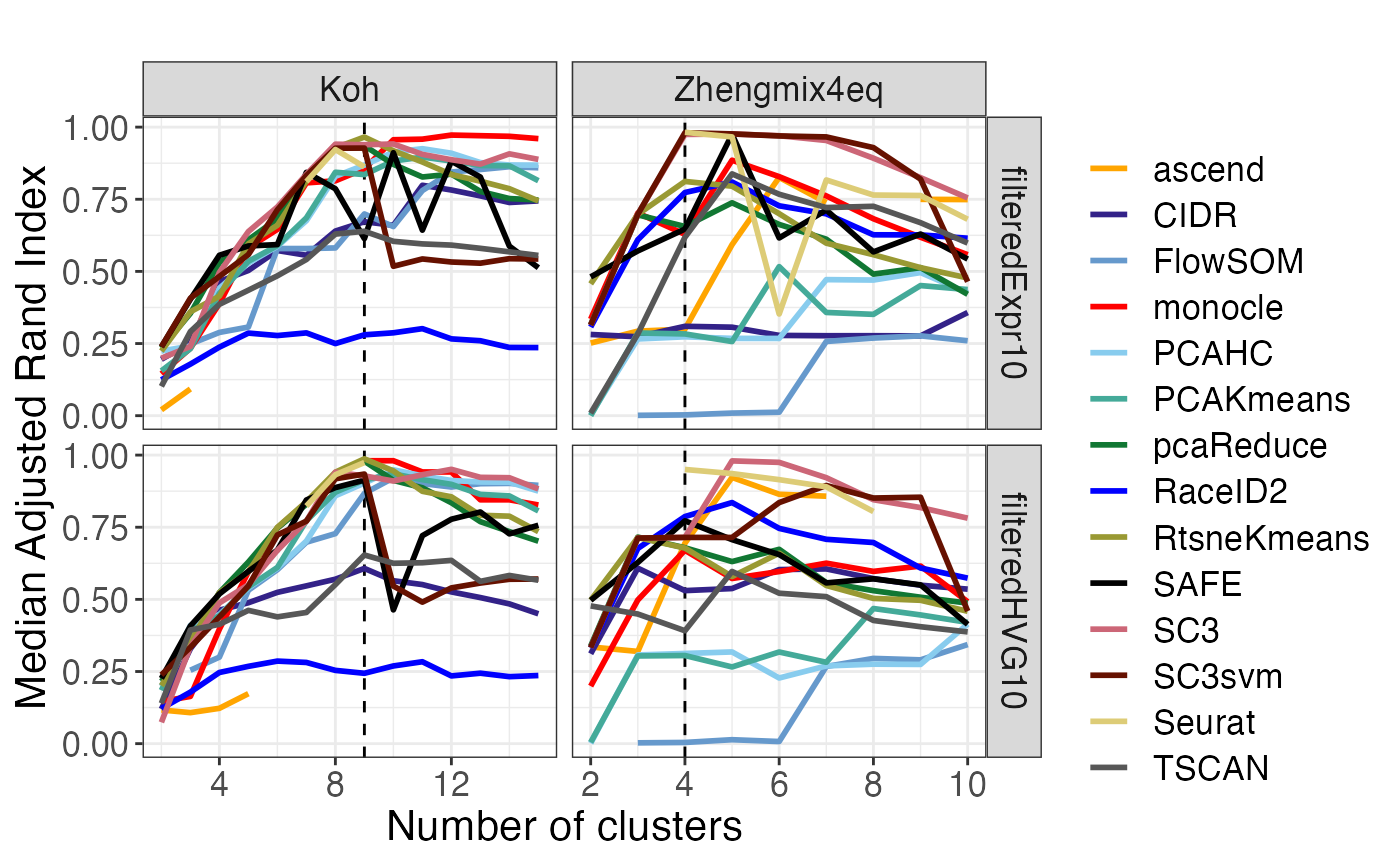
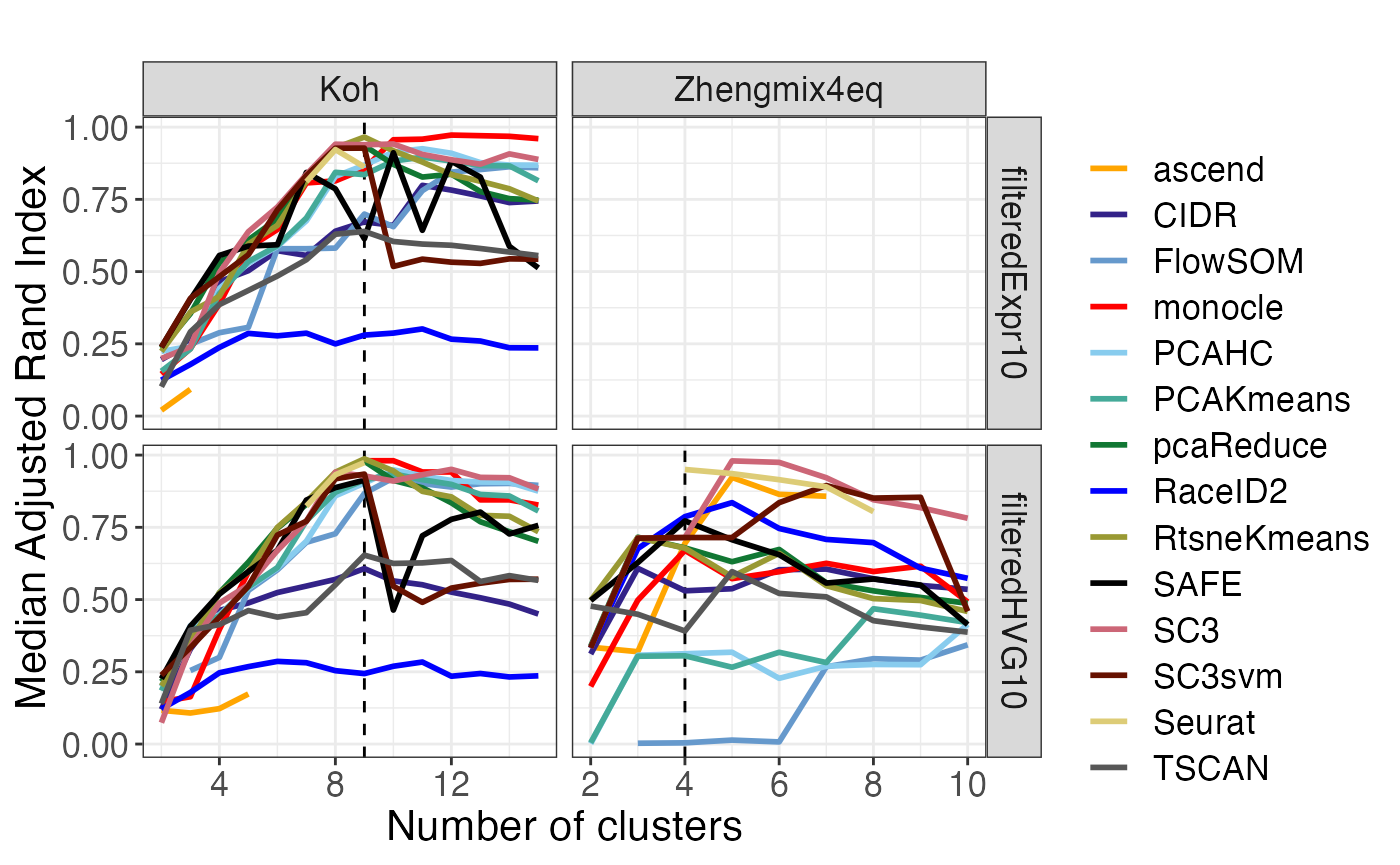
Built site for DuoClustering2018: 1.7.0@74507aa

diff --git a/articles/plot_performance.html b/articles/plot_performance.html
@@ -102,7 +102,7 @@
   <span class="kw"><a href="https://rdrr.io/r/base/library.html">library</a></span><span class="op">(</span><span class="va">DuoClustering2018</span><span class="op">)</span>
   <span class="kw"><a href="https://rdrr.io/r/base/library.html">library</a></span><span class="op">(</span><span class="va"><a href="http://had.co.nz/plyr">plyr</a></span><span class="op">)</span>
 <span class="op">}</span><span class="op">)</span></pre></div>
-<pre><code>## using temporary cache /var/folders/24/8k48jl6d249_n_qfxwsl6xvm0000gn/T//RtmpJYi2hT/BiocFileCache</code></pre>
+<pre><code>## using temporary cache /var/folders/24/8k48jl6d249_n_qfxwsl6xvm0000gn/T//Rtmpl3d2JK/BiocFileCache</code></pre>
 <pre><code>## snapshotDate(): 2020-10-02</code></pre>
 </div>
 <div id="retrieve-a-data-set" class="section level1">
@@ -187,7 +187,7 @@
 <span class="va">res</span> <span class="op">&lt;-</span> <span class="fu">plyr</span><span class="fu">::</span><span class="fu"><a href="https://rdrr.io/pkg/plyr/man/rbind.fill.html">rbind.fill</a></span><span class="op">(</span>
   <span class="fu"><a href="../reference/clustering_summary_filteredExpr10_Koh_v2.html">clustering_summary_filteredExpr10_Koh_v2</a></span><span class="op">(</span><span class="op">)</span>,
   <span class="fu"><a href="../reference/clustering_summary_filteredExpr10_Koh_v2.html">clustering_summary_filteredHVG10_Koh_v2</a></span><span class="op">(</span><span class="op">)</span>,
-  <span class="fu"><a href="../reference/clustering_summary_filteredExpr10_Koh_v2.html">clustering_summary_filteredExpr10_Zhengmix4eq_v2</a></span><span class="op">(</span><span class="op">)</span>,
+  <span class="co">#clustering_summary_filteredExpr10_Zhengmix4eq_v2(),</span>
   <span class="fu"><a href="../reference/clustering_summary_filteredExpr10_Koh_v2.html">clustering_summary_filteredHVG10_Zhengmix4eq_v2</a></span><span class="op">(</span><span class="op">)</span>
 <span class="op">)</span></pre></div>
 <pre><code>## snapshotDate(): 2020-10-02</code></pre>
@@ -205,14 +205,9 @@
 <pre><code>## downloading 1 resources</code></pre>
 <pre><code>## retrieving 1 resource</code></pre>
 <pre><code>## loading from cache</code></pre>
-<pre><code>## snapshotDate(): 2020-10-02</code></pre>
-<pre><code>## see ?DuoClustering2018 and browseVignettes('DuoClustering2018') for documentation</code></pre>
-<pre><code>## downloading 1 resources</code></pre>
-<pre><code>## retrieving 1 resource</code></pre>
-<pre><code>## loading from cache</code></pre>
-<div class="sourceCode" id="cb42"><pre class="downlit">
+<div class="sourceCode" id="cb37"><pre class="downlit">
 <span class="fu"><a href="https://rdrr.io/r/base/dim.html">dim</a></span><span class="op">(</span><span class="va">res</span><span class="op">)</span></pre></div>
-<pre><code>## [1] 5625885      10</code></pre>
+<pre><code>## [1] 3261810      10</code></pre>
 <p>The resulting <code>data.frame</code> contains 10 columns:</p>
 <ul>
 <li>
@@ -236,7 +231,7 @@
 <li>
 <code>elapsed</code>: The elapsed time of the run</li>
 </ul>
-<div class="sourceCode" id="cb44"><pre class="downlit">
+<div class="sourceCode" id="cb39"><pre class="downlit">
 <span class="fu"><a href="https://rdrr.io/r/utils/head.html">head</a></span><span class="op">(</span><span class="va">res</span><span class="op">)</span></pre></div>
 <pre><code>##                  dataset    method       cell run k resolution cluster
 ## 1 sce_filteredExpr10_Koh PCAKmeans SRR3952323   1 2         NA       1
@@ -257,7 +252,7 @@
 <h1 class="hasAnchor">
 <a href="#define-consistent-method-colors" class="anchor"></a>Define consistent method colors</h1>
 <p>For some of the plots generated below, the points will be colored according to the clustering method. We can enforce a consistent set of colors for the methods by defining a named vector of colors to use for all plots.</p>
-<div class="sourceCode" id="cb46"><pre class="downlit">
+<div class="sourceCode" id="cb41"><pre class="downlit">
 <span class="va">method_colors</span> <span class="op">&lt;-</span> <span class="fu"><a href="https://rdrr.io/r/base/c.html">c</a></span><span class="op">(</span>CIDR <span class="op">=</span> <span class="st">"#332288"</span>, FlowSOM <span class="op">=</span> <span class="st">"#6699CC"</span>, PCAHC <span class="op">=</span> <span class="st">"#88CCEE"</span>, 
             PCAKmeans <span class="op">=</span> <span class="st">"#44AA99"</span>, pcaReduce <span class="op">=</span> <span class="st">"#117733"</span>,
             RtsneKmeans <span class="op">=</span> <span class="st">"#999933"</span>, Seurat <span class="op">=</span> <span class="st">"#DDCC77"</span>, SC3svm <span class="op">=</span> <span class="st">"#661100"</span>, 
@@ -272,17 +267,17 @@
 <h2 class="hasAnchor">
 <a href="#performance" class="anchor"></a>Performance</h2>
 <p>The <code><a href="../reference/plot_performance.html">plot_performance()</a></code> function generates plots related to the performance of the clustering methods. We quantify performance using the adjusted Rand Index (ARI) <span class="citation">(Hubert and Arabie 1985)</span>, comparing the obtained clustering to the true clusters. As we noted in the publication <span class="citation">(Duò, Robinson, and Soneson 2018)</span>, defining a true partitioning of the cells is difficult, since they can often be grouped together in several different, but still interpretable, ways. We refer to our paper for more information on how the true clusters were defined for each of the data sets.</p>
-<div class="sourceCode" id="cb47"><pre class="downlit">
+<div class="sourceCode" id="cb42"><pre class="downlit">
 <span class="va">perf</span> <span class="op">&lt;-</span> <span class="fu"><a href="../reference/plot_performance.html">plot_performance</a></span><span class="op">(</span><span class="va">res</span>, method_colors <span class="op">=</span> <span class="va">method_colors</span><span class="op">)</span>
 <span class="fu"><a href="https://rdrr.io/r/base/names.html">names</a></span><span class="op">(</span><span class="va">perf</span><span class="op">)</span></pre></div>
 <pre><code>## [1] "median_ari_vs_k"           "scatter_time_vs_ari_truek"
 ## [3] "median_ari_heatmap_truek"  "median_ari_heatmap_bestk" 
 ## [5] "median_ari_heatmap_estk"</code></pre>
-<div class="sourceCode" id="cb49"><pre class="downlit">
+<div class="sourceCode" id="cb44"><pre class="downlit">
 <span class="va">perf</span><span class="op">$</span><span class="va">median_ari_vs_k</span></pre></div>
 <pre><code>## Warning: Removed 4 row(s) containing missing values (geom_path).</code></pre>
 <p><img src="plot_performance_files/figure-html/unnamed-chunk-8-1.png" width="700"></p>
-<div class="sourceCode" id="cb51"><pre class="downlit">
+<div class="sourceCode" id="cb46"><pre class="downlit">
 <span class="va">perf</span><span class="op">$</span><span class="va">median_ari_heatmap_truek</span></pre></div>
 <p><img src="plot_performance_files/figure-html/unnamed-chunk-8-2.png" width="700"></p>
 </div>
@@ -290,13 +285,9 @@
 <h2 class="hasAnchor">
 <a href="#stability" class="anchor"></a>Stability</h2>
 <p>The <code><a href="../reference/plot_stability.html">plot_stability()</a></code> function evaluates the stability of the clustering results from each method, with respect to random starts. Each method was run five times on each data set (for each k), and we quantify the stability by comparing each pair of such runs using the adjusted Rand Index.</p>
-<div class="sourceCode" id="cb52"><pre class="downlit">
+<div class="sourceCode" id="cb47"><pre class="downlit">
 <span class="va">stab</span> <span class="op">&lt;-</span> <span class="fu"><a href="../reference/plot_stability.html">plot_stability</a></span><span class="op">(</span><span class="va">res</span>, method_colors <span class="op">=</span> <span class="va">method_colors</span><span class="op">)</span></pre></div>
 <pre><code>## Aggregation function missing: defaulting to length
-## Aggregation function missing: defaulting to length
-## Aggregation function missing: defaulting to length
-## Aggregation function missing: defaulting to length
-## Aggregation function missing: defaulting to length
 ## Aggregation function missing: defaulting to length
 ## Aggregation function missing: defaulting to length
 ## Aggregation function missing: defaulting to length
@@ -308,15 +299,15 @@
 ## Aggregation function missing: defaulting to length</code></pre>
 <pre><code>## Warning: `cols` is now required when using unnest().
 ## Please use `cols = c(stability)`</code></pre>
-<div class="sourceCode" id="cb55"><pre class="downlit">
+<div class="sourceCode" id="cb50"><pre class="downlit">
 <span class="fu"><a href="https://rdrr.io/r/base/names.html">names</a></span><span class="op">(</span><span class="va">stab</span><span class="op">)</span></pre></div>
 <pre><code>## [1] "stability_vs_k"          "stability_truek"        
 ## [3] "stability_heatmap_truek"</code></pre>
-<div class="sourceCode" id="cb57"><pre class="downlit">
+<div class="sourceCode" id="cb52"><pre class="downlit">
 <span class="va">stab</span><span class="op">$</span><span class="va">stability_vs_k</span></pre></div>
 <pre><code>## Warning: Removed 4 row(s) containing missing values (geom_path).</code></pre>
 <p><img src="plot_performance_files/figure-html/unnamed-chunk-9-1.png" width="700"></p>
-<div class="sourceCode" id="cb59"><pre class="downlit">
+<div class="sourceCode" id="cb54"><pre class="downlit">
 <span class="va">stab</span><span class="op">$</span><span class="va">stability_heatmap_truek</span></pre></div>
 <p><img src="plot_performance_files/figure-html/unnamed-chunk-9-2.png" width="700"></p>
 </div>
@@ -324,15 +315,15 @@
 <h2 class="hasAnchor">
 <a href="#entropy" class="anchor"></a>Entropy</h2>
 <p>In order to evaluate the tendency of the clustering methods to favor equally sized clusters, we calculate the Shannon entropy <span class="citation">(Shannon 1948)</span> of each clustering solution (based on the proportions of cells in the different clusters) and plot this using the <code><a href="../reference/plot_entropy.html">plot_entropy()</a></code> function. Since the maximal entropy that can be obtained depends on the number of clusters, we use normalized entropies, defined by dividing the observed entropy by <code><a href="https://rdrr.io/r/base/Log.html">log2(k)</a></code>. We also compare the entropies for the clusterings to the entropy of the true partition for each data set.</p>
-<div class="sourceCode" id="cb60"><pre class="downlit">
+<div class="sourceCode" id="cb55"><pre class="downlit">
 <span class="va">entr</span> <span class="op">&lt;-</span> <span class="fu"><a href="../reference/plot_entropy.html">plot_entropy</a></span><span class="op">(</span><span class="va">res</span>, method_colors <span class="op">=</span> <span class="va">method_colors</span><span class="op">)</span>
 <span class="fu"><a href="https://rdrr.io/r/base/names.html">names</a></span><span class="op">(</span><span class="va">entr</span><span class="op">)</span></pre></div>
 <pre><code>## [1] "entropy_vs_k"           "entropy_vs_ari"         "normentropy"           
 ## [4] "deltaentropy_truek"     "deltanormentropy_truek"</code></pre>
-<div class="sourceCode" id="cb62"><pre class="downlit">
+<div class="sourceCode" id="cb57"><pre class="downlit">
 <span class="va">entr</span><span class="op">$</span><span class="va">entropy_vs_k</span></pre></div>
 <p><img src="plot_performance_files/figure-html/unnamed-chunk-10-1.png" width="700"></p>
-<div class="sourceCode" id="cb63"><pre class="downlit">
+<div class="sourceCode" id="cb58"><pre class="downlit">
 <span class="va">entr</span><span class="op">$</span><span class="va">normentropy</span></pre></div>
 <p><img src="plot_performance_files/figure-html/unnamed-chunk-10-2.png" width="700"></p>
 </div>
@@ -340,25 +331,25 @@
 <h2 class="hasAnchor">
 <a href="#timing" class="anchor"></a>Timing</h2>
 <p>The <code><a href="../reference/plot_timing.html">plot_timing()</a></code> function plots various aspects of the timing of the different methods.</p>
-<div class="sourceCode" id="cb64"><pre class="downlit">
+<div class="sourceCode" id="cb59"><pre class="downlit">
 <span class="va">timing</span> <span class="op">&lt;-</span> <span class="fu"><a href="../reference/plot_timing.html">plot_timing</a></span><span class="op">(</span><span class="va">res</span>, method_colors <span class="op">=</span> <span class="va">method_colors</span>, 
                       scaleMethod <span class="op">=</span> <span class="st">"RtsneKmeans"</span><span class="op">)</span>
 <span class="fu"><a href="https://rdrr.io/r/base/names.html">names</a></span><span class="op">(</span><span class="va">timing</span><span class="op">)</span></pre></div>
 <pre><code>## [1] "time_boxplot"           "time_normalized_by_ref" "time_vs_k"</code></pre>
-<div class="sourceCode" id="cb66"><pre class="downlit">
+<div class="sourceCode" id="cb61"><pre class="downlit">
 <span class="va">timing</span><span class="op">$</span><span class="va">time_normalized_by_ref</span></pre></div>
-<pre><code>## Warning: Removed 32 rows containing non-finite values (stat_boxplot).</code></pre>
+<pre><code>## Warning: Removed 29 rows containing non-finite values (stat_boxplot).</code></pre>
 <p><img src="plot_performance_files/figure-html/unnamed-chunk-11-1.png" width="700"></p>
 </div>
 <div id="differences-in-k" class="section level2">
 <h2 class="hasAnchor">
 <a href="#differences-in-k" class="anchor"></a>Differences in k</h2>
 <p>Most performance evaluations above are performed on the clustering solutions obtained by imposing the “true” number of clusters. The <code><a href="../reference/plot_k_diff.html">plot_k_diff()</a></code> function evaluates the difference between the true number of cluster and the number of clusters giving the best agreement with the true partition, as well as the difference between the estimated and the true number of clusters, for the methods that allow estimation of k.</p>
-<div class="sourceCode" id="cb68"><pre class="downlit">
+<div class="sourceCode" id="cb63"><pre class="downlit">
 <span class="va">kdiff</span> <span class="op">&lt;-</span> <span class="fu"><a href="../reference/plot_k_diff.html">plot_k_diff</a></span><span class="op">(</span><span class="va">res</span>, method_colors <span class="op">=</span> <span class="va">method_colors</span><span class="op">)</span>
 <span class="fu"><a href="https://rdrr.io/r/base/names.html">names</a></span><span class="op">(</span><span class="va">kdiff</span><span class="op">)</span></pre></div>
 <pre><code>## [1] "diff_kmax_ktrue" "diff_kest_ktrue"</code></pre>
-<div class="sourceCode" id="cb70"><pre class="downlit">
+<div class="sourceCode" id="cb65"><pre class="downlit">
 <span class="va">kdiff</span><span class="op">$</span><span class="va">diff_kest_ktrue</span></pre></div>
 <pre><code>## `stat_bindot()` using `bins = 30`. Pick better value with `binwidth`.</code></pre>
 <p><img src="plot_performance_files/figure-html/unnamed-chunk-12-1.png" width="700"></p>
@@ -367,7 +358,7 @@
 <div id="session-info" class="section level1">
 <h1 class="hasAnchor">
 <a href="#session-info" class="anchor"></a>Session info</h1>
-<div class="sourceCode" id="cb72"><pre class="downlit">
+<div class="sourceCode" id="cb67"><pre class="downlit">
 <span class="fu"><a href="https://rdrr.io/r/utils/sessionInfo.html">sessionInfo</a></span><span class="op">(</span><span class="op">)</span></pre></div>
 <pre><code>## R version 4.0.3 (2020-10-10)
 ## Platform: x86_64-apple-darwin17.0 (64-bit)

diff --git a/articles/run_clustering.html b/articles/run_clustering.html
@@ -116,7 +116,7 @@
 <span class="fu"><a href="https://rdrr.io/r/base/message.html">suppressPackageStartupMessages</a></span><span class="op">(</span><span class="op">{</span>
   <span class="kw"><a href="https://rdrr.io/r/base/library.html">library</a></span><span class="op">(</span><span class="va">DuoClustering2018</span><span class="op">)</span>
 <span class="op">}</span><span class="op">)</span></pre></div>
-<pre><code>## using temporary cache /var/folders/24/8k48jl6d249_n_qfxwsl6xvm0000gn/T//RtmpGKM1k5/BiocFileCache</code></pre>
+<pre><code>## using temporary cache /var/folders/24/8k48jl6d249_n_qfxwsl6xvm0000gn/T//RtmpvyN5Wc/BiocFileCache</code></pre>
 <pre><code>## snapshotDate(): 2020-10-02</code></pre>
 <div class="sourceCode" id="cb4"><pre class="downlit">
 <span class="va">scename</span> <span class="op">&lt;-</span> <span class="st">"sce_filteredExpr10_Koh"</span>

diff --git a/articles/combine_data_clustering.html b/articles/combine_data_clustering.html
@@ -103,7 +103,7 @@
   <span class="kw"><a href="https://rdrr.io/r/base/library.html">library</a></span><span class="op">(</span><span class="va"><a href="https://dplyr.tidyverse.org">dplyr</a></span><span class="op">)</span>
   <span class="kw"><a href="https://rdrr.io/r/base/library.html">library</a></span><span class="op">(</span><span class="va"><a href="https://tidyr.tidyverse.org">tidyr</a></span><span class="op">)</span>
 <span class="op">}</span><span class="op">)</span></pre></div>
-<pre><code>## using temporary cache /var/folders/24/8k48jl6d249_n_qfxwsl6xvm0000gn/T//Rtmpr2F5fv/BiocFileCache</code></pre>
+<pre><code>## using temporary cache /var/folders/24/8k48jl6d249_n_qfxwsl6xvm0000gn/T//Rtmp0zFUWd/BiocFileCache</code></pre>
 <pre><code>## snapshotDate(): 2020-10-02</code></pre>
 </div>
 <div id="retrieve-a-data-set" class="section level1">
